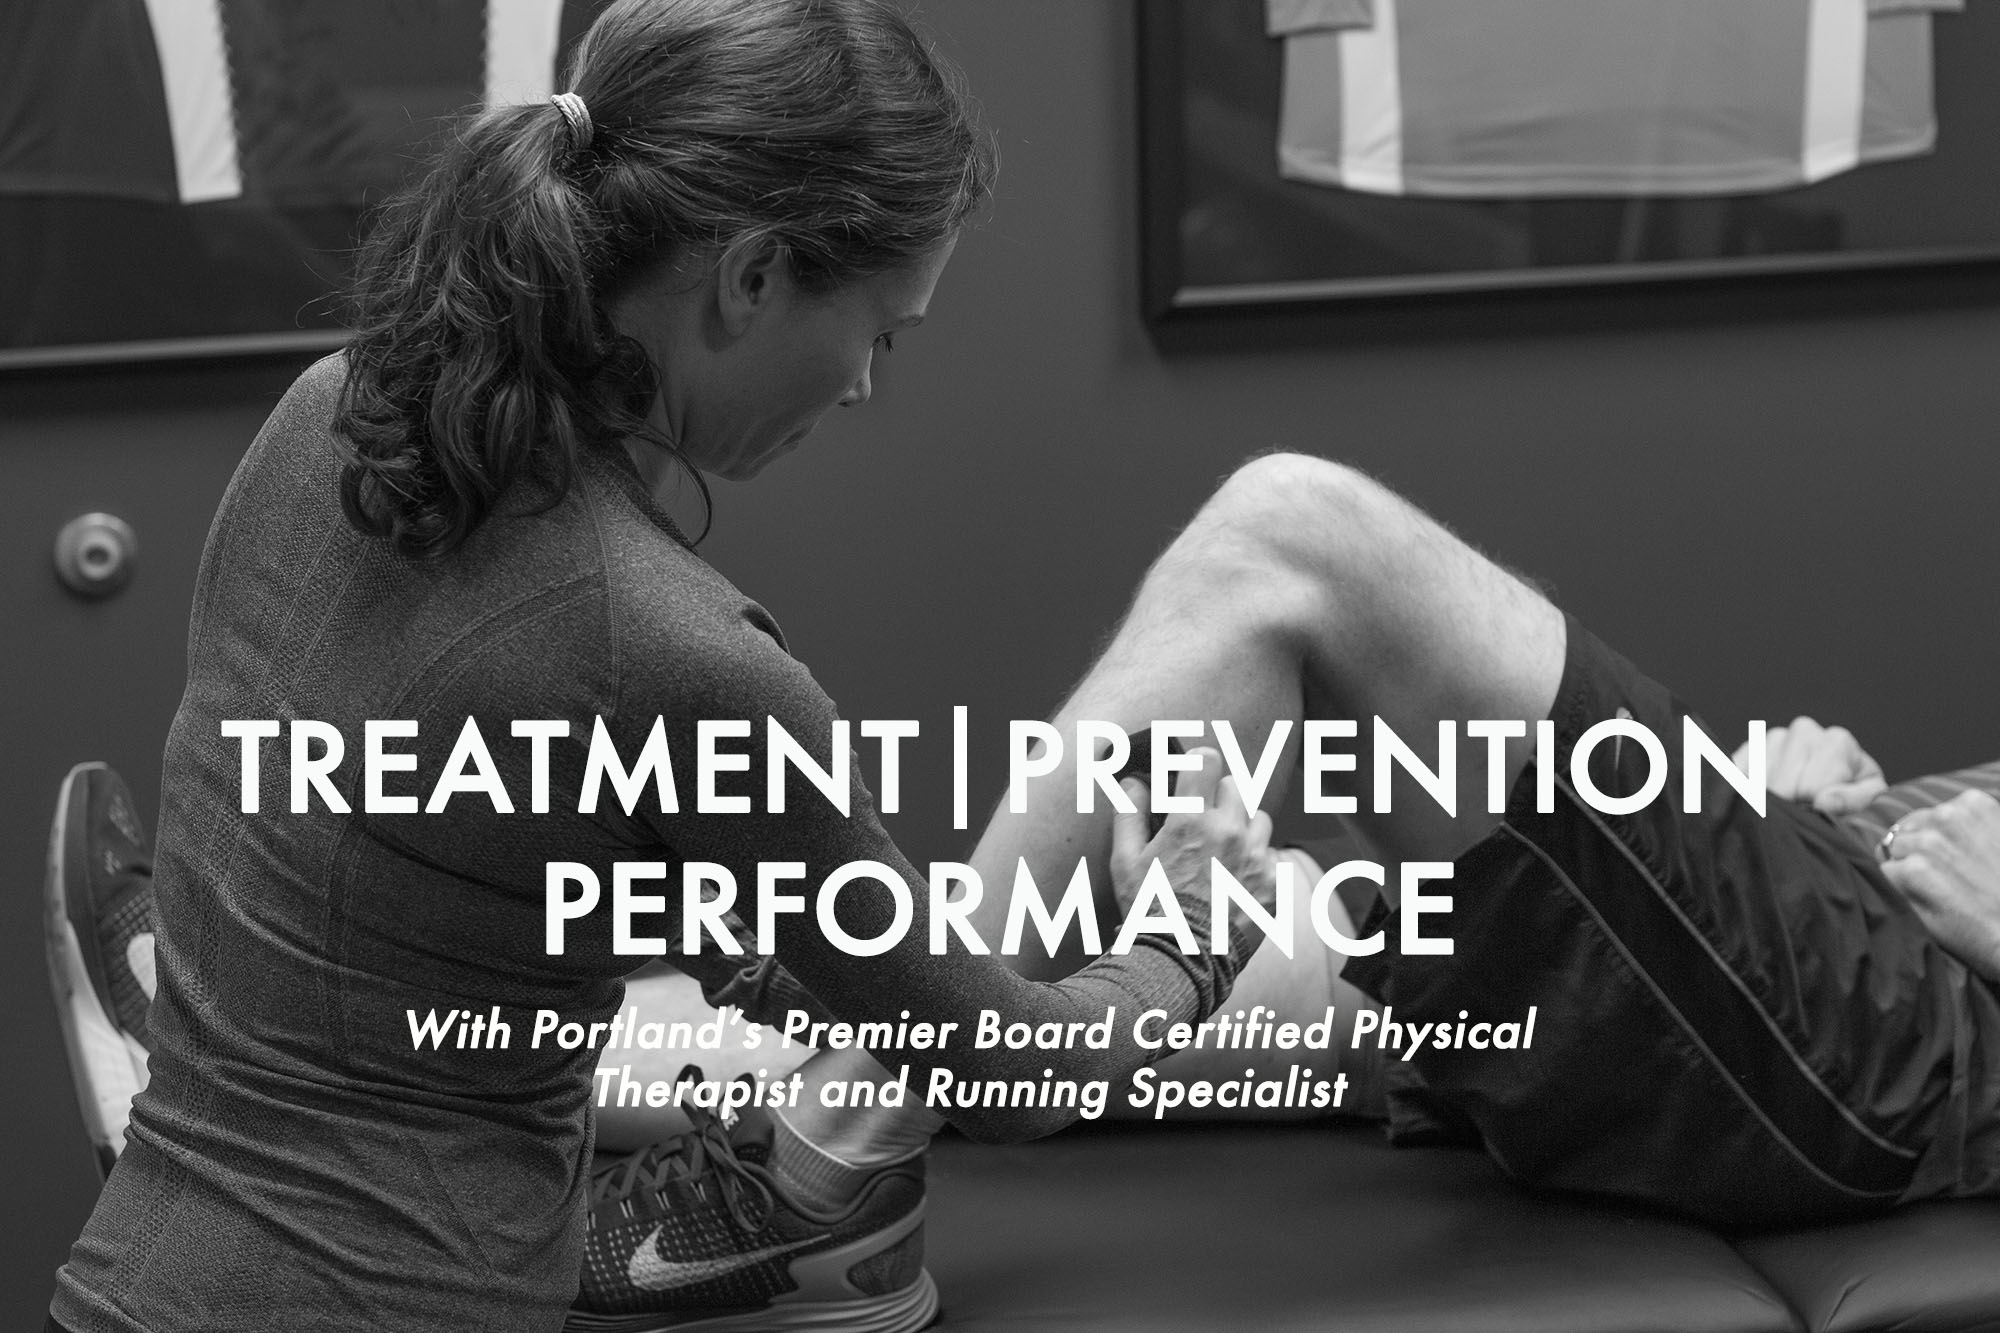
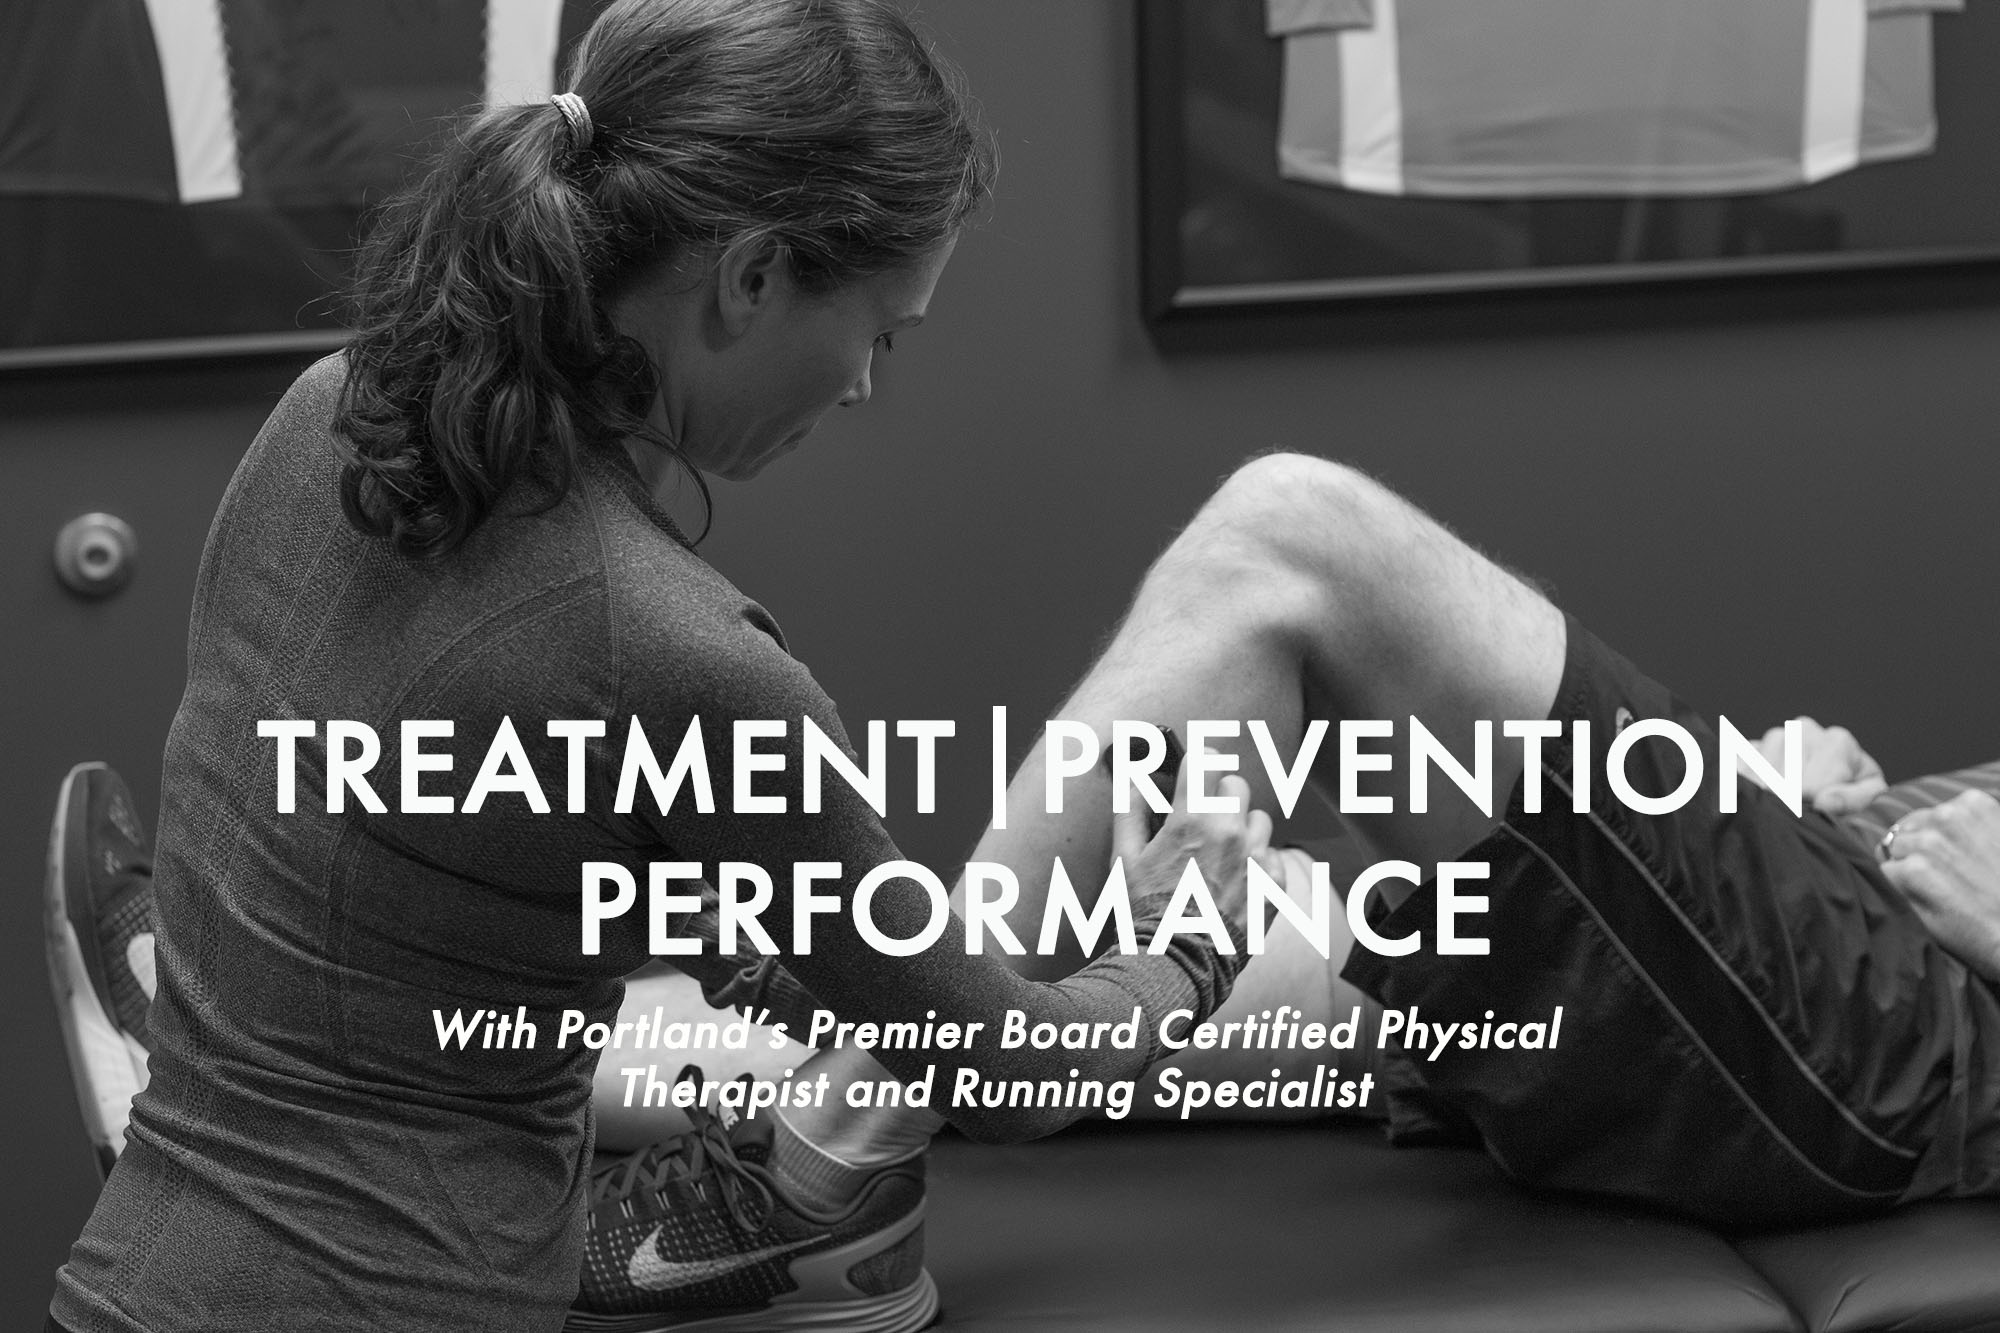
mods to header image

Changed region(s): [[0.186, 0.6459, 0.775, 0.8612], [0.093, 0.5229, 0.899, 0.6152]]

diff --git a/index.html b/index.html
@@ -221,7 +221,7 @@
                                         <a href="#about"><img src="assets/images/deep-v-white.svg" style="height: 15%; width: 15%;" alt="" /></a>
                                     </div>
                                     <!-- MAIN IMAGE -->
-                                    <img src="assets/images/run-fast-girl-cropped.jpg"  alt="" data-lazyload="assets/images/run-fast-girl-cropped.jpg" data-bgposition="center top" data-scale="cover" data-bgrepeat="no-repeat" >
+                                    <img src="assets/images/run-fast-girl.jpg"  alt="" data-lazyload="assets/images/run-fast-girl.jpg" data-bgposition="center top" data-scale="cover" data-bgrepeat="no-repeat" >
 
                                 </li>
 
